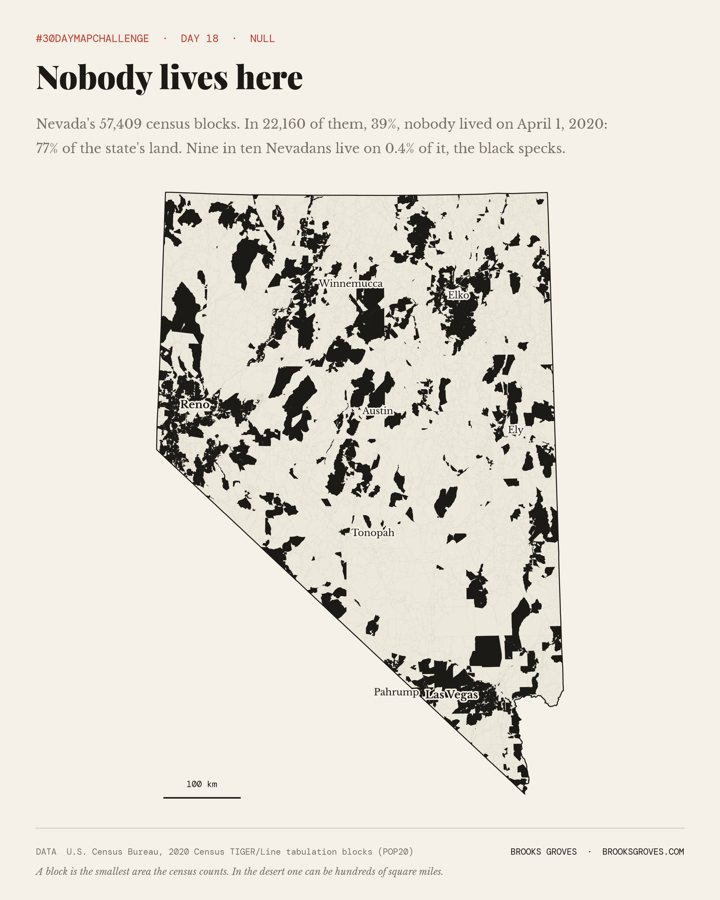
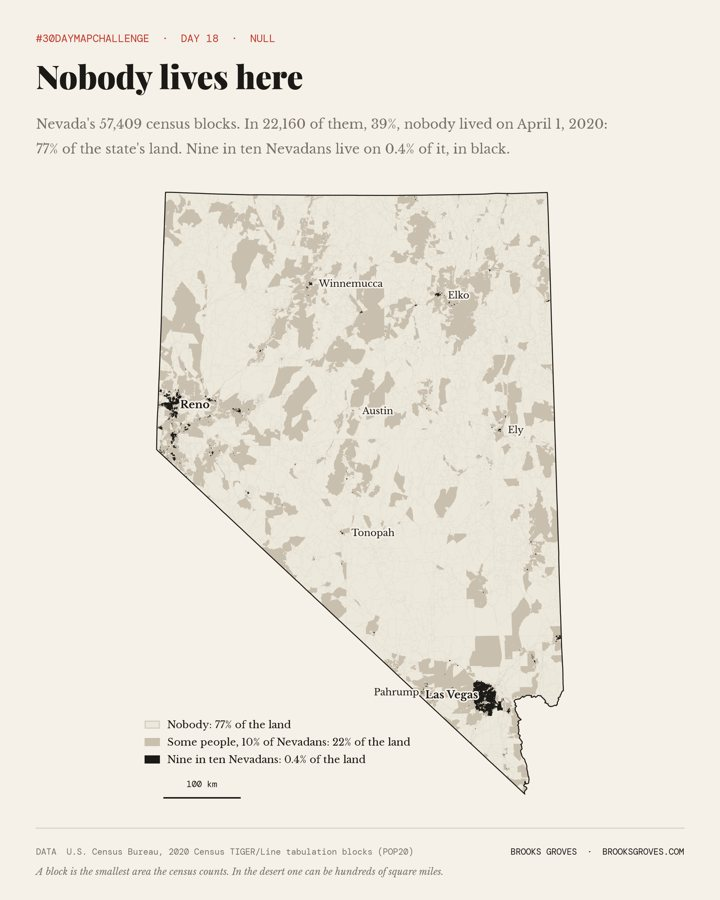
Gallery: thumbnails always rebuilt (day 18's was stale), 'Open the map' link for day 13, phone tile spacing
Claude-Session: https://claude.ai/code/session_017Wz3D7XhrJfSZNzKN34Nn3

diff --git a/2026/index.html b/2026/index.html
@@ -69,8 +69,9 @@ footer{border-top:2px solid var(--ink);padding:22px 0 40px;font:12px var(--mono)
   .count{text-align:left} .progress{justify-content:flex-start;flex-wrap:wrap}
   .dow{display:none}
   .grid{grid-template-columns:1fr 1fr;gap:8px}
+  .cell.has-img img{height:36%}
   .cell.blank{display:none}
-  .cell{min-height:150px}
+  .cell{min-height:180px}
   .dlg{grid-template-columns:1fr}
 }
 </style>
@@ -128,7 +129,7 @@ function open(n){
   $('dlg-body').innerHTML=`<div class="img">${d.image?`<a href="${esc(d.image)}" target="_blank"><img src="${esc(d.image)}" alt="${esc(d.alt)}"></a>`:`<div class="none">The map arrives ${esc(when)}.</div>`}</div>
     <div class="txt"><span class="th">Day ${d.day} · ${esc(d.theme)} · ${esc(when)}</span><h2 id="dlg-title">${esc(d.title)}</h2><p>${esc(d.pitch)}</p>
       <dl>${d.data.length?`<dt>Data</dt><dd>${d.data.map(esc).join('<br>')}</dd>`:''}${d.tools.length?`<dt>Tools</dt><dd>${d.tools.map(esc).join(', ')}</dd>`:''}<dt>Status</dt><dd>${esc(LABEL[d.status])}</dd></dl>
-      <div class="acts"><a href="${esc(d.folder)}">Code and sources</a>${d.post?`<a href="${esc(d.post)}">The post</a>`:''}</div></div>`;
+      <div class="acts">${d.link?`<a href="${esc(d.link)}">Open the map</a>`:''}<a href="${esc(d.folder)}">Code and sources</a>${d.post?`<a href="${esc(d.post)}">The post</a>`:''}</div></div>`;
   history.replaceState(null,'','#day-'+n); $('dlg').showModal();
 }
 $('close').onclick=()=>$('dlg').close();

diff --git a/2026/toolkit/build.py b/2026/toolkit/build.py
@@ -66,8 +66,8 @@ def write_readme(folder: Path, block: str) -> None:
 
 def thumb(png: Path) -> Path | None:
     t = png.parent / "thumb.jpg"
-    if t.exists() and t.stat().st_mtime >= png.stat().st_mtime:
-        return t
+    # always remade: a fresh checkout gives every file the same time, so timestamps can't say
+    # whether the map changed. JPEG output is deterministic, so an unchanged map makes no diff.
     try:
         from PIL import Image
     except ImportError:
@@ -104,6 +104,7 @@ def main() -> None:
             "thumb": f"{RAW}/{rel}/out/thumb.jpg" if t else None,
             "alt": alt.read_text(encoding="utf-8").strip() if alt.exists() else "",
             "post": d.get("post"),
+            "link": d.get("link"),
         })
     counts = {s: sum(1 for x in out if x["status"] == s) for s in ORDER}
     manifest = {"year": plan["year"], "start": start.isoformat(), "hashtag": plan["hashtag"],
